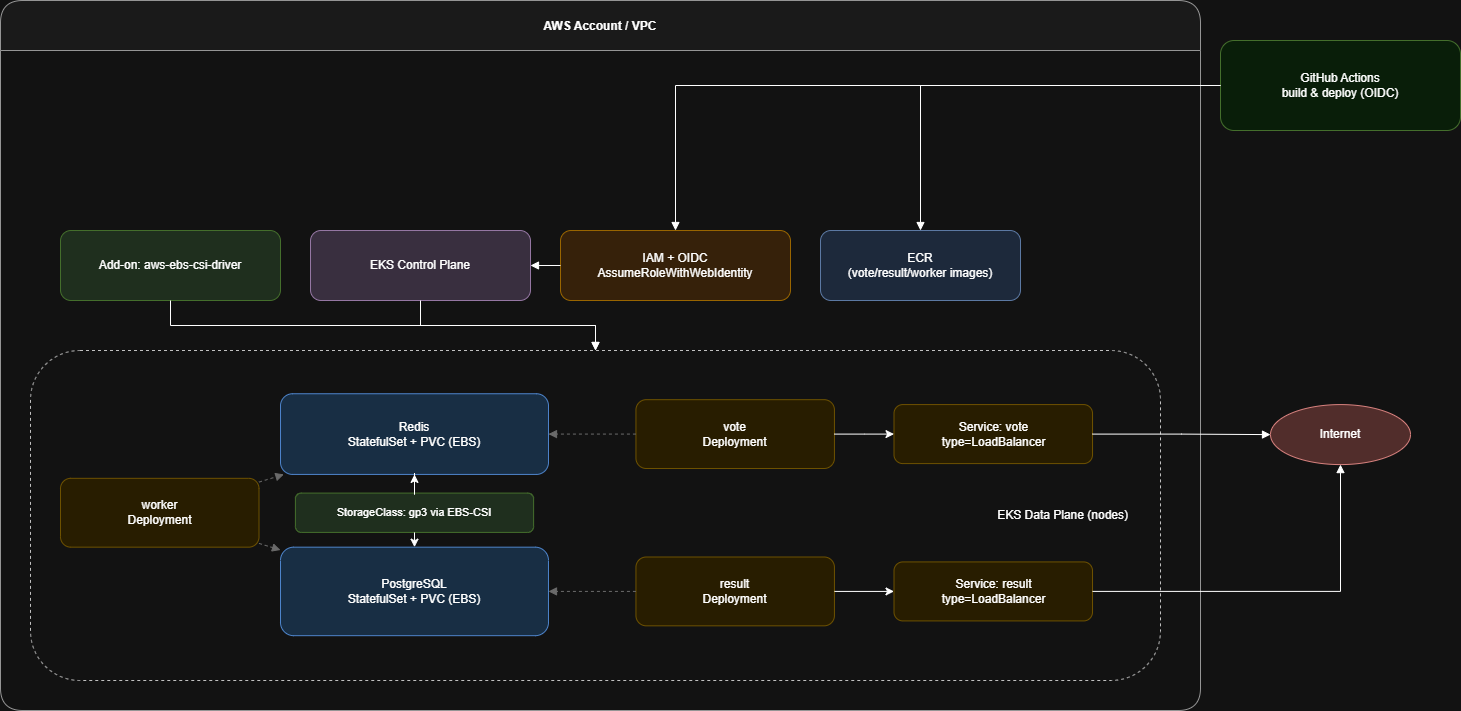
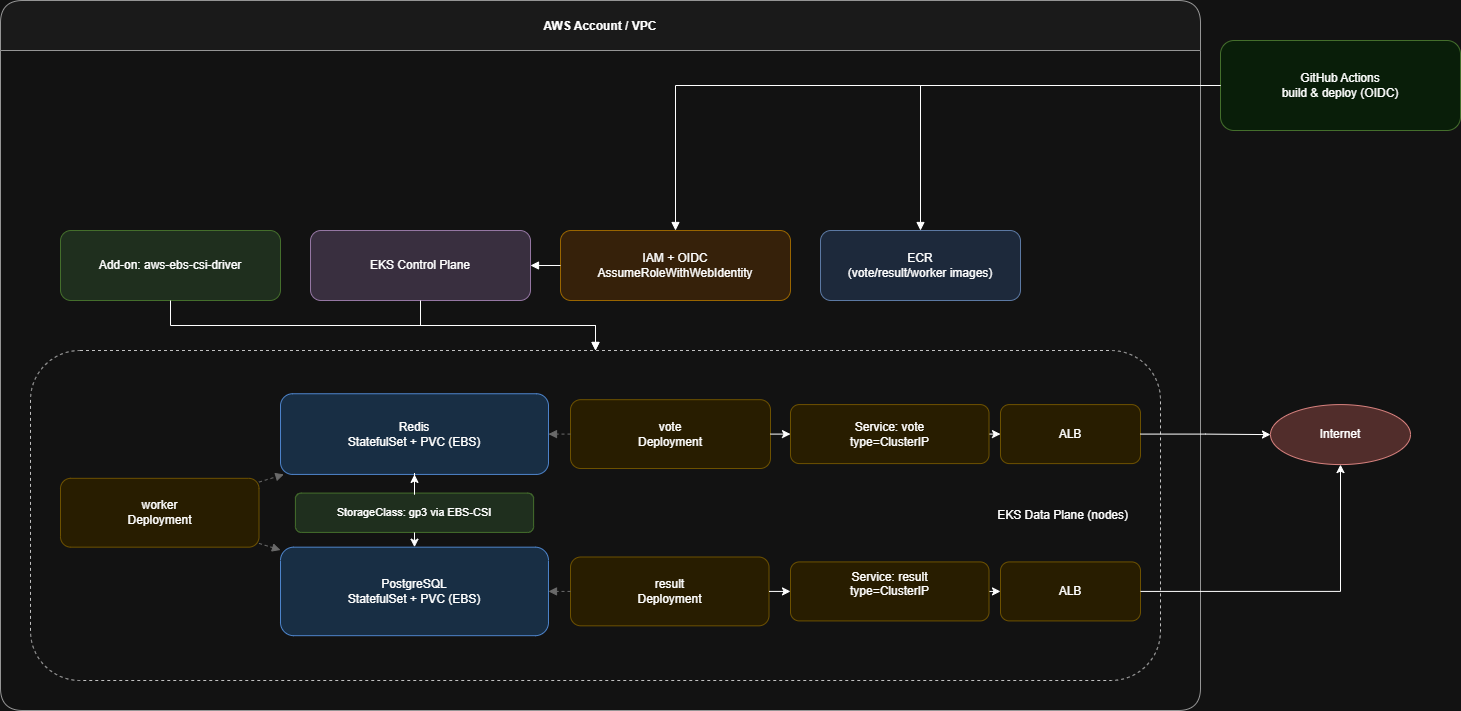
Implement Application Load Balancer (ALB) for voting app services with WebSocket support

Changed region(s): [[0.4312, 0.557, 0.7392, 0.6498], [0.4312, 0.7736, 0.7084, 0.8664], [0.5236, 0.8664, 0.5852, 0.8973]]

diff --git a/README.md b/README.md
@@ -1,9 +1,21 @@
-
-
 # TSTC01 Example Voting App on AWS EKS using Terraform, Helm & GitHub Actions
 Technical Assessment for TeamStation.
 
 A production‑minded, minimal, and secure implementation of the classic **Example Voting App** on **Amazon EKS**, using **Terraform v1.6+**, **EKS module v21**, a **custom Helm umbrella chart** (apps + dependencies), and **GitHub Actions** with **OIDC** to assume AWS roles.
+
+---
+
+## Updates: Application Load Balancer (ALB) for WebSocket Support
+
+The `vote` and `result` services now use **AWS Application Load Balancer (ALB)** instead of classic ELB. This change was made to better support **WebSocket connections**, which are critical for real-time updates in the voting app.
+
+### Why ALB is Better for WebSockets
+
+1. **Native WebSocket Support**: ALB natively supports WebSocket and HTTP/2 protocols, ensuring seamless real-time communication between the client and backend services.
+2. **Idle Timeout Configuration**: ALB allows fine-grained control over idle timeout settings, which is essential for maintaining long-lived WebSocket connections. The timeout has been set to 3600 seconds for both services to prevent premature disconnections.
+3. **Sticky Sessions**: ALB supports sticky sessions via target group attributes, which helps maintain session affinity for WebSocket connections, especially when fallback mechanisms like polling are used.
+4. **Path-Based Routing**: ALB enables advanced routing capabilities, such as path-based or host-based routing, which can simplify future expansions (e.g., consolidating multiple services under a single ALB with different paths).
+5. **Enhanced Observability**: ALB provides detailed metrics and logs for monitoring WebSocket traffic, making it easier to debug and optimize performance.
 
 ---
 
